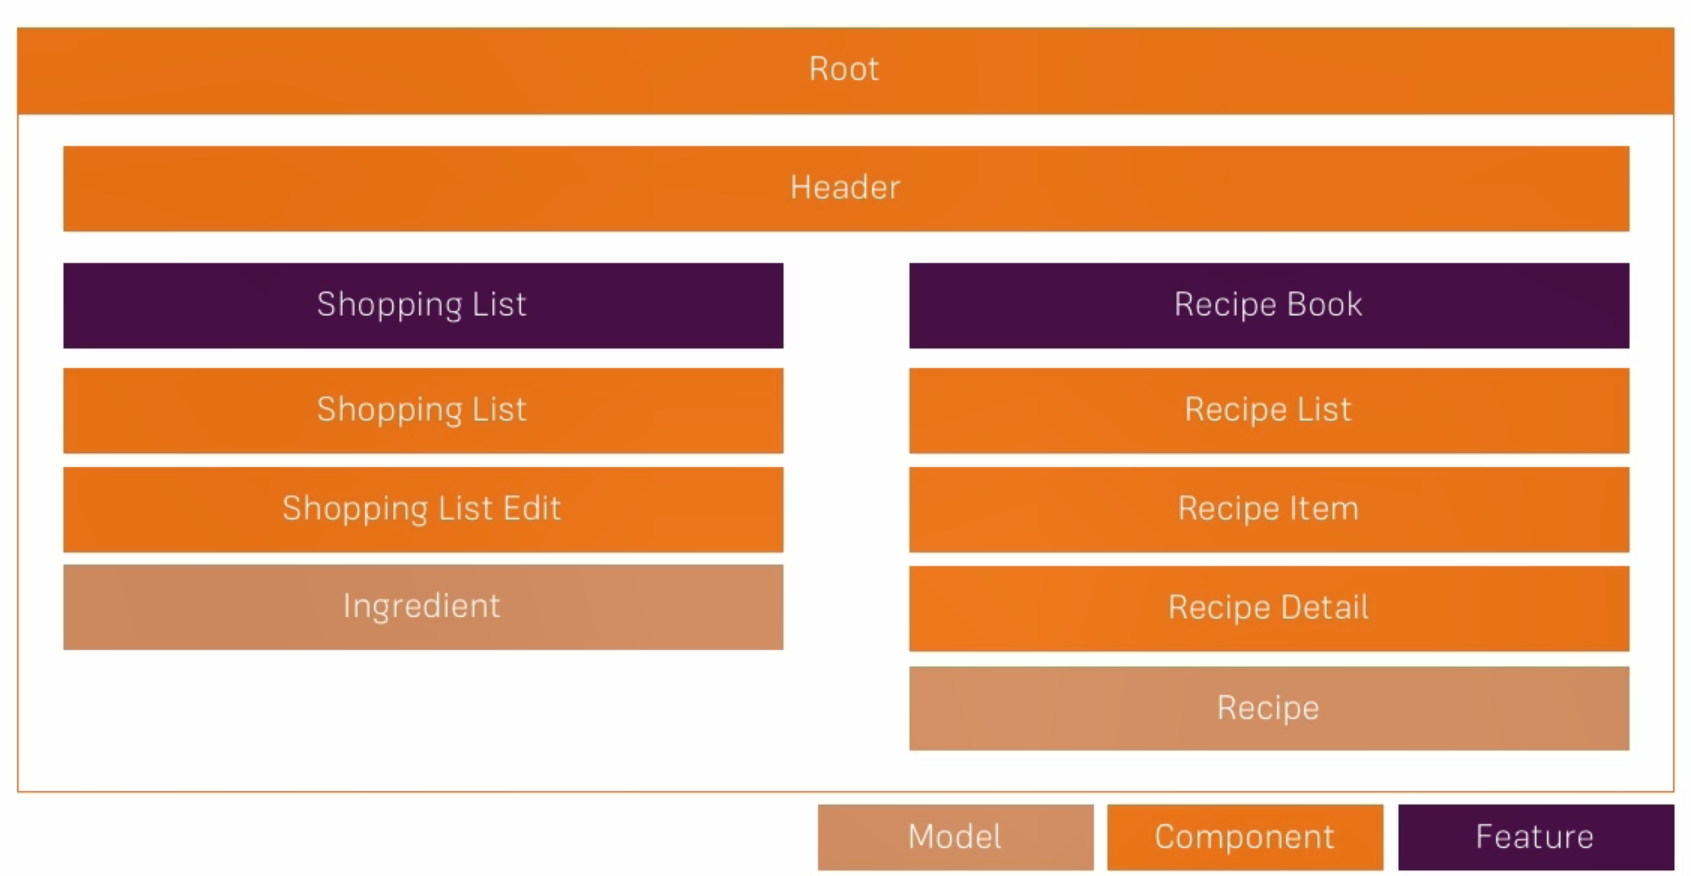
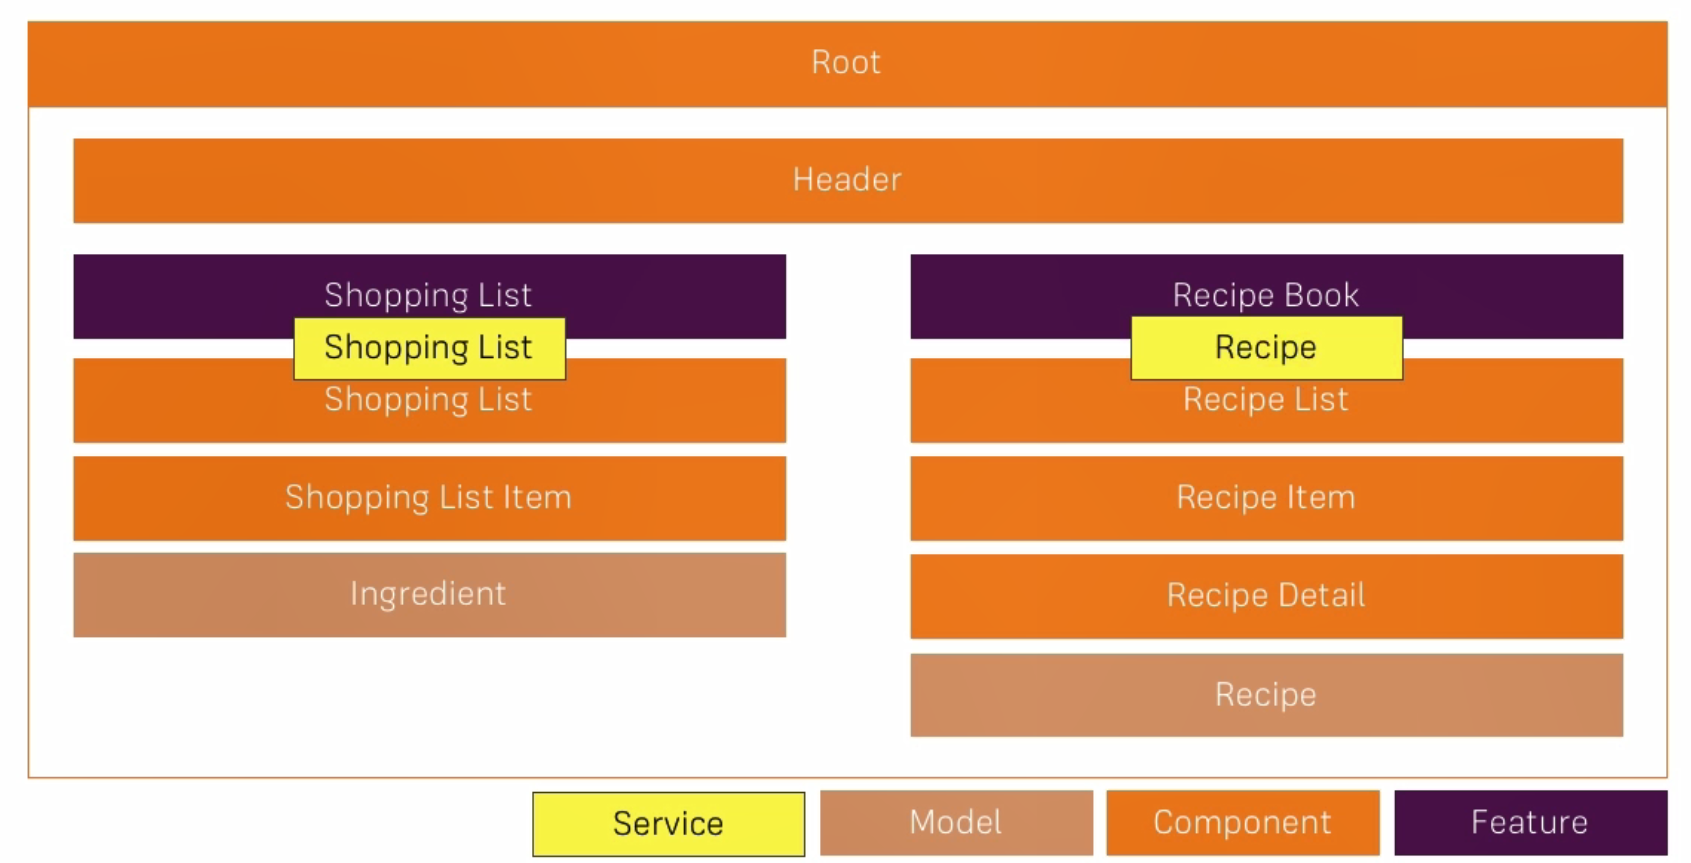
Added services to the project

Changed region(s): [[0.0, 0.0, 1.0, 1.0], [0.4613, 0.4218, 0.492, 0.5122]]

diff --git a/src/app/recipes/recipe.service.ts b/src/app/recipes/recipe.service.ts
@@ -1,0 +1,34 @@
+import { EventEmitter, Injectable } from '@angular/core';
+import { Recipe } from './recipe.model';
+import { Ingredient } from '../shared/ingredient.model';
+import { ShoppingListService } from '../shopping-list/shopping-list.service';
+
+@Injectable() 
+export class RecipeService {
+    recipeSelected = new EventEmitter<Recipe>();
+
+    private recipes: Recipe[] = [
+        new Recipe('Tasty Schnitzel', 'A super tasty Schnitzel - just awesome!',
+                   'https://truffle-assets.imgix.net/pxqrocxwsjcc_1vJqlhifoQ20oGY4wy8cIi_CHICKEN-SCHNITZEL-BURGER_1920X1080-THUMBNAIL.jpg',
+                    [
+                        new Ingredient('Meat', 1),
+                        new Ingredient('French Fries', 20)
+                    ]),
+        new Recipe('Big Fat Burguer', 'What else you need to say?',
+                   'http://aht.seriouseats.com/images/20100331-fatburger-large.jpg',
+                    [
+                        new Ingredient('Buns', 2),
+                        new Ingredient('Meat', 1)
+                    ])
+    ];
+
+    constructor(private slService: ShoppingListService) { }
+
+    getRecipes() {
+        return this.recipes.slice(); // return new array
+    }
+
+    addIngredientsToShoppingList(ingredients: Ingredient[]) {
+        this.slService.addIngredients(ingredients);
+    }
+}

diff --git a/src/app/shopping-list/shopping-edit/shopping-edit.component.ts b/src/app/shopping-list/shopping-edit/shopping-edit.component.ts
@@ -1,5 +1,6 @@
-import { Component, OnInit, ElementRef, ViewChild, EventEmitter, Output } from '@angular/core';
+import { Component, OnInit, ElementRef, ViewChild } from '@angular/core';
 import { Ingredient } from '../../shared/ingredient.model';
+import { ShoppingListService } from '../shopping-list.service';
 
 @Component({
   selector: 'app-shopping-edit',
@@ -9,16 +10,17 @@ import { Ingredient } from '../../shared/ingredient.model';
 export class ShoppingEditComponent implements OnInit {
   @ViewChild('nameInput') nameInputRef: ElementRef;
   @ViewChild('amountInput') amountInputRef: ElementRef;
-  @Output() ingredientAdded = new EventEmitter<Ingredient>();
+  // @Output() ingredientAdded = new EventEmitter<Ingredient>(); - using services instead
 
-  constructor() { }
+  constructor(private slService: ShoppingListService) { }
 
   ngOnInit() {
   }
 
   onAddItem() {
     const newIngredient = new Ingredient(this.nameInputRef.nativeElement.value, this.amountInputRef.nativeElement.value);
-    this.ingredientAdded.emit(newIngredient);
+    // this.ingredientAdded.emit(newIngredient); - Using services instead
+    this.slService.addIngredient(newIngredient);
   }
 
 }

diff --git a/src/app/recipes/recipe-list/recipe-list.component.ts b/src/app/recipes/recipe-list/recipe-list.component.ts
@@ -1,5 +1,6 @@
-import { Component, OnInit, EventEmitter, Output } from '@angular/core';
+import { Component, OnInit } from '@angular/core';
 import { Recipe } from '../recipe.model';
+import { RecipeService } from '../recipe.service';
 
 @Component({
   selector: 'app-recipe-list',
@@ -7,22 +8,12 @@ import { Recipe } from '../recipe.model';
   styleUrls: ['./recipe-list.component.css']
 })
 export class RecipeListComponent implements OnInit {
-  @Output() recipeWasSelected = new EventEmitter<Recipe>();
+  recipes: Recipe[];
 
-  recipes: Recipe[] = [
-    new Recipe('A Test Recipe', 'This is simply a test',
-               'https://images-gmi-pmc.edge-generalmills.com/f7405ab7-114b-4fa7-894f-11bb575d38e0.jpg'),
-    new Recipe('Another Test Recipe', 'This is simply another test',
-               'https://images-gmi-pmc.edge-generalmills.com/f7405ab7-114b-4fa7-894f-11bb575d38e0.jpg')
-  ];
-
-  constructor() { }
+  constructor(private recipeService: RecipeService) { }
 
   ngOnInit() {
-  }
-
-  onRecipeSelected(recipe: Recipe) {
-    this.recipeWasSelected.emit(recipe);
+    this.recipes = this.recipeService.getRecipes();
   }
 
 }

diff --git a/src/app/shopping-list/shopping-list.component.ts b/src/app/shopping-list/shopping-list.component.ts
@@ -1,5 +1,6 @@
 import { Component, OnInit } from '@angular/core';
 import { Ingredient } from '../shared/ingredient.model';
+import { ShoppingListService } from './shopping-list.service';
 
 @Component({
   selector: 'app-shopping-list',
@@ -7,18 +8,21 @@ import { Ingredient } from '../shared/ingredient.model';
   styleUrls: ['./shopping-list.component.css']
 })
 export class ShoppingListComponent implements OnInit {
-  ingredients: Ingredient[] = [
-    new Ingredient('Apples', 5),
-    new Ingredient('Tomatoes', 10)
-  ];
+  ingredients: Ingredient[];
 
-  constructor() { }
+  constructor(private slService: ShoppingListService) { }
 
   ngOnInit() {
+    this.ingredients = this.slService.getIngredients();
+    this.slService.ingredientsChanged.subscribe(
+      (ingredients: Ingredient[]) => {
+        this.ingredients = ingredients;
+      }
+    );
   }
 
-  onIngredientAdded(ingredient: Ingredient) {
-    this.ingredients.push(ingredient);
-  }
+  // onIngredientAdded(ingredient: Ingredient) {
+  //   this.ingredients.push(ingredient);
+  // }
 
 }

diff --git a/src/app/shopping-list/shopping-list.service.ts b/src/app/shopping-list/shopping-list.service.ts
@@ -1,0 +1,32 @@
+import { EventEmitter } from '@angular/core';
+import { Ingredient } from '../shared/ingredient.model';
+
+export class ShoppingListService {
+    ingredientsChanged = new EventEmitter<Ingredient[]>();
+
+    private ingredients: Ingredient[] = [
+        new Ingredient('Apples', 5),
+        new Ingredient('Tomatoes', 10)
+    ];
+
+    getIngredients() {
+        return this.ingredients.slice(); // send copy of array
+    }
+
+    addIngredient(ingredient: Ingredient) {
+        this.ingredients.push(ingredient);
+
+        // Because we only have a copy of the array - slice - we need
+        // to send a notification out when that array gets updated
+        this.ingredientsChanged.emit(this.ingredients.slice());
+    }
+
+    addIngredients(ingredients: Ingredient[]) {
+        // for (const ingredientItem of ingredients) {
+        //     this.addIngredient(ingredientItem);
+        // }
+
+        this.ingredients.push(...ingredients);
+        this.ingredientsChanged.emit(this.ingredients.slice());
+    }
+}

diff --git a/src/app/recipes/recipe-list/recipe-item/recipe-item.component.ts b/src/app/recipes/recipe-list/recipe-item/recipe-item.component.ts
@@ -1,5 +1,6 @@
-import { Component, OnInit, Input, EventEmitter, Output } from '@angular/core';
+import { Component, OnInit, Input } from '@angular/core';
 import { Recipe } from '../../recipe.model';
+import { RecipeService } from '../../recipe.service';
 
 @Component({
   selector: 'app-recipe-item',
@@ -8,15 +9,16 @@ import { Recipe } from '../../recipe.model';
 })
 export class RecipeItemComponent implements OnInit {
   @Input() recipe: Recipe;
-  @Output() recipeSelected = new EventEmitter<void>();
+  // @Output() recipeSelected = new EventEmitter<void>(); // Added before using services
 
-  constructor() { }
+  constructor(private recipeService: RecipeService) { }
 
   ngOnInit() {
   }
 
   onSelected() {
-    this.recipeSelected.emit();
+    // this.recipeSelected.emit(); // added before using services
+    this.recipeService.recipeSelected.emit(this.recipe);
   }
 
 }

diff --git a/src/app/recipes/recipe-detail/recipe-detail.component.html b/src/app/recipes/recipe-detail/recipe-detail.component.html
@@ -15,7 +15,7 @@
     <div class="btn-group" appDropdown>
       <button type="button" class="btn btn-primary dropdown-toggle">Manage Recipe <span class="caret"></span></button>
       <ul class="dropdown-menu">
-        <li><a href="#">To Shopping List</a></li>
+        <li><a (click)="onAddToShoppingList()" style="cursor: pointer;">To Shopping List</a></li>
         <li><a href="#">Edit Recipe</a></li>
         <li><a href="#">Delete Recipe</a></li>
       </ul>
@@ -31,6 +31,10 @@
 
 <div class="row">
   <div class="col-xs-12">
-    Ingredients
+    <ul class="list-group">
+      <li class="list-group-item" *ngFor="let ingredient of recipe.ingredients">
+        {{ ingredient.name }} - {{ ingredient.amount }}
+      </li>
+    </ul>
   </div>
 </div>

diff --git a/src/app/recipes/recipes.component.ts b/src/app/recipes/recipes.component.ts
@@ -1,17 +1,24 @@
 import { Component, OnInit } from '@angular/core';
 import { Recipe } from './recipe.model';
+import { RecipeService } from './recipe.service';
 
 @Component({
   selector: 'app-recipes',
   templateUrl: './recipes.component.html',
-  styleUrls: ['./recipes.component.css']
+  styleUrls: ['./recipes.component.css'],
+  providers: [RecipeService]
 })
 export class RecipesComponent implements OnInit {
   selectedRecipe: Recipe;
 
-  constructor() { }
+  constructor(private recipeService: RecipeService) { }
 
   ngOnInit() {
+    this.recipeService.recipeSelected.subscribe(
+      (recipe: Recipe) => {
+        this.selectedRecipe = recipe;
+      }
+    );
   }
 
 }

diff --git a/src/app/app.module.ts b/src/app/app.module.ts
@@ -11,6 +11,7 @@ import { RecipeItemComponent } from './recipes/recipe-list/recipe-item/recipe-it
 import { ShoppingListComponent } from './shopping-list/shopping-list.component';
 import { ShoppingEditComponent } from './shopping-list/shopping-edit/shopping-edit.component';
 import { DropdownDirective } from './shared/dropdown.directive';
+import { ShoppingListService } from './shopping-list/shopping-list.service';
 
 
 @NgModule({
@@ -28,7 +29,7 @@ import { DropdownDirective } from './shared/dropdown.directive';
   imports: [
     BrowserModule
   ],
-  providers: [],
+  providers: [ShoppingListService],
   bootstrap: [AppComponent]
 })
 export class AppModule { }

diff --git a/src/app/recipes/recipe-detail/recipe-detail.component.ts b/src/app/recipes/recipe-detail/recipe-detail.component.ts
@@ -1,5 +1,6 @@
 import { Component, OnInit, Input } from '@angular/core';
 import { Recipe } from '../recipe.model';
+import { RecipeService } from '../recipe.service';
 
 @Component({
   selector: 'app-recipe-detail',
@@ -9,9 +10,13 @@ import { Recipe } from '../recipe.model';
 export class RecipeDetailComponent implements OnInit {
   @Input() recipe: Recipe;
 
-  constructor() { }
+  constructor(private recipeService: RecipeService) { }
 
   ngOnInit() {
+  }
+
+  onAddToShoppingList() {
+    this.recipeService.addIngredientsToShoppingList(this.recipe.ingredients);
   }
 
 }

diff --git a/src/app/recipes/recipe.model.ts b/src/app/recipes/recipe.model.ts
@@ -1,11 +1,15 @@
+import { Ingredient } from '../shared/ingredient.model';
+
 export class Recipe {
     public name: string;
     public description: string;
     public imagePath: string;
+    public ingredients: Ingredient[];
 
-    constructor(name: string, desc: string, imagePath: string) {
+    constructor(name: string, desc: string, imagePath: string, ingredients: Ingredient[]) {
         this.name = name;
         this.description = desc;
         this.imagePath = imagePath;
+        this.ingredients = ingredients;
     }
 }

diff --git a/src/app/shopping-list/shopping-list.component.html b/src/app/shopping-list/shopping-list.component.html
@@ -1,6 +1,7 @@
 <div class="row">
   <div class="col-xs-10">
-    <app-shopping-edit (ingredientAdded)="onIngredientAdded($event)"></app-shopping-edit>
+    <!-- <app-shopping-edit (ingredientAdded)="onIngredientAdded($event)"></app-shopping-edit> -->
+    <app-shopping-edit></app-shopping-edit>
     <hr>
     <ul class="list-group">
       <a class="list-group-item" style="cursor: pointer" *ngFor="let ingredient of ingredients">
